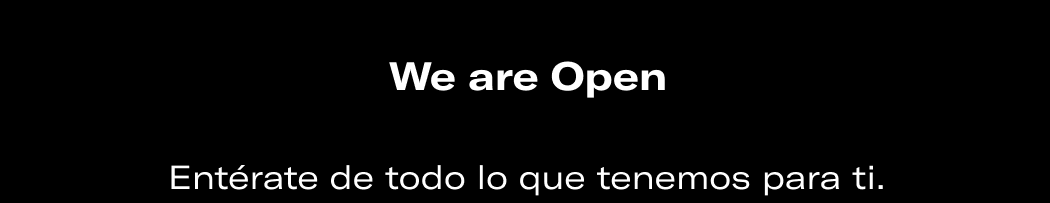
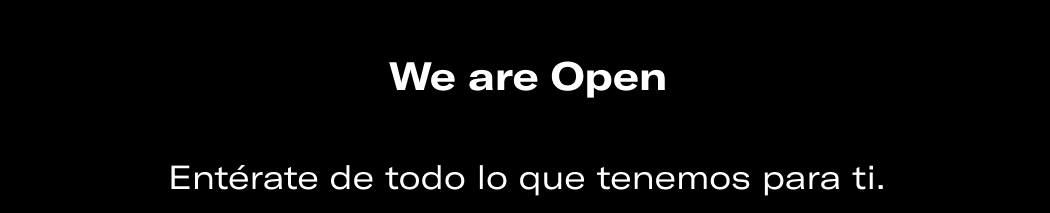
x

Changed region(s): [[0.1524, 0.7685, 0.8533, 0.9458], [0.3657, 0.266, 0.64, 0.4729]]

diff --git a/Promociones/CB_Digital_TDC Crossell/CB_Digital_TDC Crossell.html b/Promociones/CB_Digital_TDC Crossell/CB_Digital_TDC Crossell.html
@@ -496,15 +496,8 @@
         <table border="0" cellpadding="0" cellspacing="0" width="100%" class="templateColumnsFooter darkmode" bgcolor="#000000"
         style="-webkit-text-size-adjust:100%;-ms-text-size-adjust:100%;mso-table-lspace:0pt;mso-table-rspace:0pt;mso-default-height:100%;mso-default-width:100%;mso-space-above:no;mso-space-below:no;margin:0;padding:0;width:100%;max-width:600px;border-collapse:collapse !important;border-spacing:0 !important;table-layout:fixed !important;padding:0 !important;table-layout:auto !important;margin: 0; padding: 0; max-width: 600px; background-image: url('https://openbank-newsletter-q2k5.vercel.app/img/rrss/footer-bg.png'); background-image: linear-gradient(#000000, #000000); background-color: #000000; background-repeat: repeat;">
         <tr>
-          <td colspan="3" align="center" class="footer-title"
-            style="-webkit-text-size-adjust:100%;-ms-text-size-adjust:100%;mso-table-lspace:0pt;mso-table-rspace:0pt;mso-default-height:100%;mso-default-width:100%;mso-space-above:no;mso-space-below:no;font-size:20px;line-height:27px;-webkit-text-size-adjust:none;font-family: 'GT-America-Extended', sans-serif; font-size: 20px; line-height: 27px; -webkit-text-size-adjust: none; color: #aaaaaa; padding: 30px 20px 30px; font-weight: bold;">
-            We are Open
-          </td>
-        </tr>
-        <tr>
-          <td colspan="3" class="footer-text" align="center" valign="top"
-            style="-webkit-text-size-adjust:100%;-ms-text-size-adjust:100%;mso-table-lspace:0pt;mso-table-rspace:0pt;mso-default-height:100%;mso-default-width:100%;mso-space-above:no;mso-space-below:no;font-size:12px;line-height:18px;white-space:nowrap;-webkit-text-size-adjust:none;text-align: center; font-family: 'GT-America-Extended', sans-serif; font-size: 15px; -webkit-text-size-adjust: none; color: #aaaaaa; padding: 0px 10px 20px;">
-            <p style="word-wrap: break-word;text-wrap: wrap;margin:0;">Entérate de todo lo que tenemos para ti.</p>
+          <td>
+            <img src="https://openbank-newsletter-q2k5.vercel.app/Promociones/CB_Digital_TDC Crossell/img/we_are_open.png" width="100%" alt="" style="display:block;">
           </td>
         </tr>
         <tr>
